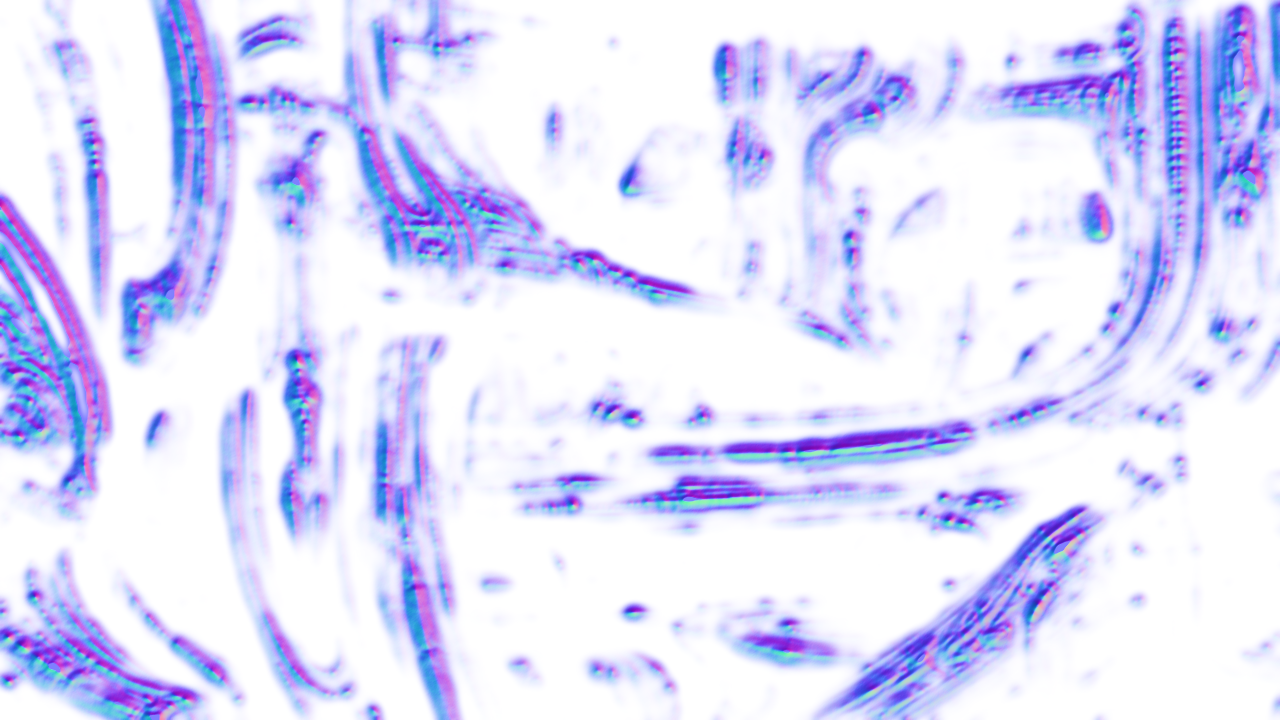
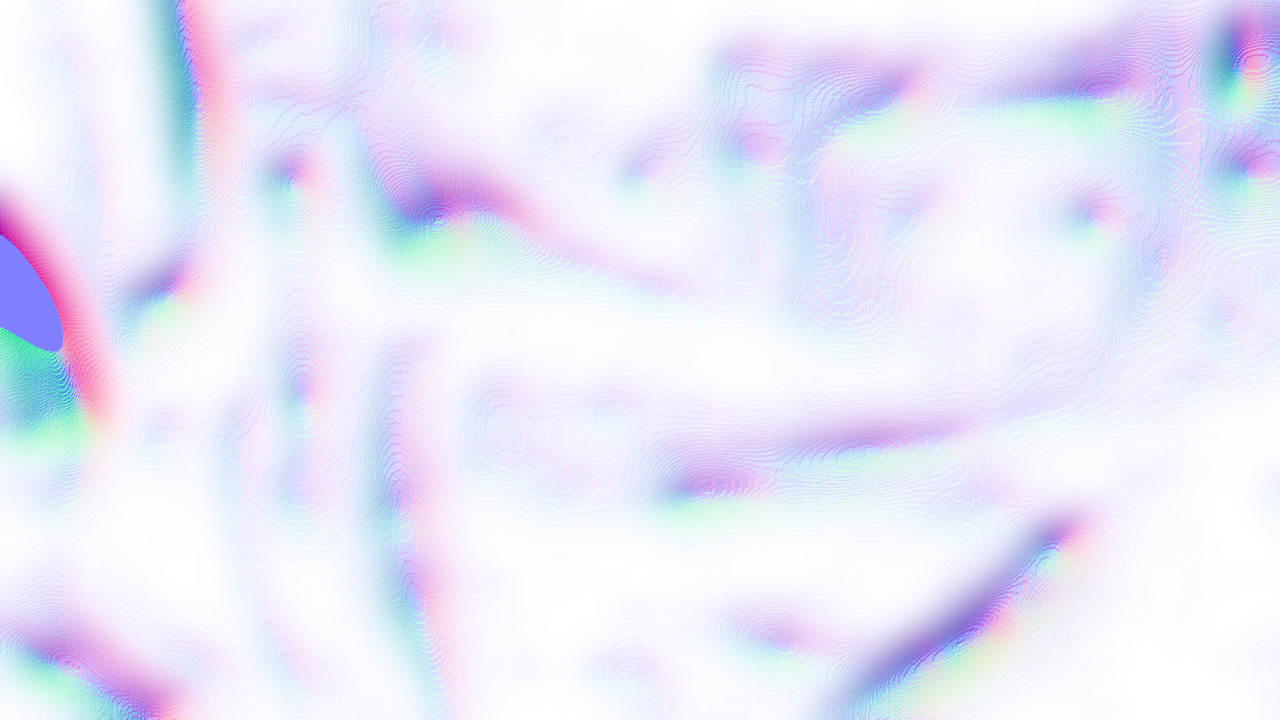
Light the backgrounds with standard tangent-space normal mapping
The block had drifted into a rig that could not read as normal mapping:
three drifting point lights, a diffuse term that used only the tilted
part of the normal, and a relief mask that gated the light to the steep
pixels. Whatever the map said, the result could only pool around the
map's ridges, never describe a lit surface, and it swung between too
weak and too strong as the pools drifted over the clipping threshold.

Replace it with the ordinary thing: an ambient floor plus two
directional lights -- a warm key whose direction drifts on a slow
lissajous and a cool fixed fill -- and a Blinn-Phong glint, all against
the full max(dot(n, l), 0.0). The relief mask and the alpha channel
that carried it are gone; alpha is the height field again and nothing
samples it.

The map needed work before that could read. Its height field was a
light blur of the luminance, and a luminance gradient is only non-zero
where the art changes: half the frame was flat and all the relief sat
in one-pixel bands along the art's contours, so lighting it traced the
art's edges -- the "lightning that is edging". The blur is now heavy
(broad 26 px, fine 13 px) so the relief comes from the large forms --
the Harvest dome, the spires, the ridges -- and the art's own texture
stops being amplified into banding. SLOPE_MAX 3.0 clamps the steepest
art edges so they cannot push a normal past ~72 degrees and strobe.

Median pixel gain is now 1.48x with a p10 of 0.73 and a p90 of 1.66, so
[…]

diff --git a/tools/make_bg_normal_maps.py b/tools/make_bg_normal_maps.py
@@ -9,14 +9,9 @@ assets/<name>_normal.png, 1280x720 RGBA:
        Convention matches assets/depth_fog*.fs on the fullscreen quad:
        x right, y DOWN (v grows with image rows), z toward the viewer,
        encoded as rgb * 0.5 + 0.5. No green-channel flip.
-  A    the relief mask the shaders multiply the lights by (0..1):
-       smoothstep(RELIEF_MIN, RELIEF_MAX) over a *blurred* slope. Baking it
-       matters: the height field pins to 0/1 where the art is dark, which
-       leaves perfectly flat plateaus, and the slope collapses to ~0 in a
-       single pixel at their border. Computing the mask from the raw slope in
-       the shader flips it 0<->1 across that one pixel -- a hard edge that
-       traces the art's contours (visible on the flanks of the Harvest
-       face). Blurring the slope first turns the cliff into a ramp.
+  A    the smoothed height field itself (0..1), kept for inspection. Nothing
+       samples it: the shaders light the RGB normal with plain tangent-space
+       N.L, so no relief mask is baked any more.
 
 The height field is the two-scale gaussian of the art's luminance, so the
 bright biomechanical ridges become raised forms. Gradient strength is
@@ -52,39 +47,47 @@ ASSETS = ROOT / "assets"
 BACKGROUNDS = ["harvest", "hole", "arctic", "castle", "city", "face", "realm"]
 
 WIDTH, HEIGHT = 1280, 720
-BLUR_DETAIL = 1.6      # px sigma for the fine height scale
-BLUR_BROAD = 3.6       # px sigma for the broad forms
+# The height field comes from luminance, so its gradient is only non-zero
+# where the art actually changes -- half the frame is flat and the relief
+# sits in bands along the art's contours. Lighting that read as edging
+# rather than bumps, so the blur is now heavy: only the large forms (dome,
+# spires, ridges) carry relief, and the art's own texture stops being
+# amplified into visible contour banding.
+BLUR_DETAIL = 13.0     # px sigma for the fine height scale
+BLUR_BROAD = 26.0      # px sigma for the broad forms
 DETAIL_WEIGHT = 0.35   # weight of the fine scale vs the broad one
-TARGET_SLOPE = 1.0     # p98 of |grad height| is scaled to this slope
-
-# Relief mask, baked into the normal maps' alpha channel (see normal_map()).
-# The slope is blurred first: where the height field pins to 0/1, or where the
-# art itself has a hard edge, the slope collapses in a single pixel, and a mask
-# taken from the raw slope flips 0<->1 there -- a hard edge that traces the
-# art's contours. RELIEF_BLUR turns those cliffs into ramps.
-RELIEF_MIN = 0.07    # slope below this is flat: stays at ambient
-RELIEF_MAX = 0.58    # slope above this is lit at full strength
-RELIEF_BLUR = 5.0    # px sigma the slope is blurred by before the mask
+TARGET_SLOPE = 2.6     # p98 of |grad height| is scaled to this slope, which
+                       # sets how strong the relief is. 1.0 left the map nearly
+                       # flat (mean tilt 10 degrees), so N.L barely varied and
+                       # the light read as a wash; 2.6 gives mean tilt 25
+                       # degrees, p90 56 -- bumps that actually answer a light.
+SLOPE_MAX = 3.0        # clamp on the scaled slope, so the steepest art edges
+                       # cannot push the normal past ~72 degrees and strobe.
 
 # ---- moving-light constants; keep in sync with assets/depth_fog*.fs ----
-AMBIENT = 1.10       # what flat art is multiplied by
-LIGHT_HEIGHT = 0.35  # grazing light height, shared by all three lights
+# Standard tangent-space normal mapping: an ambient term plus two directional
+# lights (a warm key whose direction drifts, a cool fixed fill) and a
+# Blinn-Phong glint. No pools, no masks, no slope-only tricks.
+AMBIENT = 0.55       # floor, so shadowed slopes stay out of pitch black
+KEY_GAIN = 1.25
+KEY_COLOR = (1.00, 0.93, 0.82)
+FILL_GAIN = 0.30
+FILL_COLOR = (0.55, 0.70, 1.00)
+SPEC_POWER = 48.0
+SPEC_GAIN = 0.30
 FLASH_GAIN = 1.00    # thunder-spike lift; the decay envelope is C-side
-SPEC_POWER = 28.0
-SPEC_GAIN = 0.40
-ASPECT = 16.0 / 9.0
-# (path(t) -> (u, v) centre, radius, gain, tint)
-LIGHTS = [
-    (lambda t: (0.50 + 0.42 * math.sin(t * 0.100),
-                0.30 + 0.18 * math.sin(t * 0.067 + 1.7)),
-     0.62, 3.20, (1.00, 0.97, 0.90)),
-    (lambda t: (0.22 + 0.26 * math.cos(t * 0.073 + 0.6),
-                0.52 + 0.24 * math.sin(t * 0.073)),
-     0.55, 2.80, (0.90, 0.96, 1.00)),
-    (lambda t: (0.80 + 0.22 * math.sin(t * 0.055 + 2.9),
-                0.42 + 0.28 * math.cos(t * 0.049 + 1.1)),
-     0.58, 2.60, (1.00, 0.93, 0.88)),
-]
+
+
+def key_direction(t: float) -> np.ndarray:
+    """Drifting key-light direction (unit, z toward the viewer, y DOWN)."""
+    az = 0.90 * math.sin(t * 0.043) + 0.35 * math.sin(t * 0.017 + 1.3)
+    el = 0.55 + 0.18 * math.sin(t * 0.029)
+    v = np.array([math.sin(az) * math.cos(el), -math.sin(el), math.cos(az) * math.cos(el)])
+    return v / np.linalg.norm(v)
+
+
+FILL_DIRECTION = np.array([-0.55, 0.35, 0.75])
+FILL_DIRECTION = FILL_DIRECTION / np.linalg.norm(FILL_DIRECTION)
 # -----------------------------------------------------------------------
 
 
@@ -107,47 +110,16 @@ def normal_map(img: Image.Image) -> np.ndarray:
     mag = np.sqrt(gx * gx + gy * gy)
     p = float(np.percentile(mag, 98.0))
     s = TARGET_SLOPE / max(p, 1e-6)
-    nx, ny, nz = -gx * s, -gy * s, np.ones_like(h)
+    slope = np.minimum(mag * s, SLOPE_MAX)
+    ang = np.arctan2(gy, gx)
+    nx, ny, nz = -slope * np.cos(ang), -slope * np.sin(ang), np.ones_like(h)
     inv = 1.0 / np.sqrt(nx * nx + ny * ny + nz * nz)
-    # Alpha: the relief mask, computed from a blurred slope so that art edges
-    # -- which become one-pixel cliffs where the height field pins to 0/1 --
-    # ramp instead of flipping the mask in a single pixel.
-    relief = relief_mask(gaussian_blur(mag * s, RELIEF_BLUR))
     out = np.zeros(h.shape + (4,), dtype=np.uint8)
     out[..., 0] = np.clip((nx * inv * 0.5 + 0.5) * 255.0, 0, 255)
     out[..., 1] = np.clip((ny * inv * 0.5 + 0.5) * 255.0, 0, 255)
     out[..., 2] = np.clip((nz * inv * 0.5 + 0.5) * 255.0, 0, 255)
-    out[..., 3] = np.clip(relief * 255.0, 0, 255)
+    out[..., 3] = np.clip(h * 255.0, 0, 255)
     return out
-
-
-def gaussian_blur(a: np.ndarray, sigma: float) -> np.ndarray:
-    """Separable gaussian blur with edge padding (numpy only: PIL's
-    GaussianBlur cannot handle float arrays)."""
-    if sigma <= 0.0:
-        return a
-    radius = max(1, int(round(sigma * 3.0)))
-    x = np.arange(-radius, radius + 1, dtype=np.float64)
-    kernel = np.exp(-0.5 * (x / sigma) ** 2)
-    kernel /= kernel.sum()
-    out = a
-    for axis in (0, 1):
-        pad = [(0, 0)] * out.ndim
-        pad[axis] = (radius, radius)
-        padded = np.pad(out, pad, mode="edge")
-        acc = np.zeros_like(out)
-        for i in range(kernel.size):
-            src = [slice(None)] * out.ndim
-            src[axis] = slice(i, i + out.shape[axis])
-            acc += kernel[i] * padded[tuple(src)]
-        out = acc
-    return out
-
-
-def relief_mask(slope: np.ndarray) -> np.ndarray:
-    """Smoothstep mask from RELIEF_MIN to RELIEF_MAX over a slope field."""
-    ramp = np.clip((slope - RELIEF_MIN) / max(RELIEF_MAX - RELIEF_MIN, 1e-6), 0.0, 1.0)
-    return ramp * ramp * (3.0 - 2.0 * ramp)
 
 
 def render_lights(normal_rgba: np.ndarray, base: np.ndarray, t: float,
@@ -158,36 +130,26 @@ def render_lights(normal_rgba: np.ndarray, base: np.ndarray, t: float,
     Its decay envelope lives in src/ui_board.c, so pass the amount you want
     to preview; this only mirrors the shader's FLASH_GAIN conversion.
     """
-    u = (np.arange(WIDTH, dtype=np.float64) + 0.5) / WIDTH
-    v = (np.arange(HEIGHT, dtype=np.float64) + 0.5) / HEIGHT
-    uu, vv = np.meshgrid(u, v)
     nx = normal_rgba[..., 0] / 255.0 * 2.0 - 1.0
     ny = normal_rgba[..., 1] / 255.0 * 2.0 - 1.0
     nz = normal_rgba[..., 2] / 255.0 * 2.0 - 1.0
     inv = 1.0 / np.sqrt(nx * nx + ny * ny + nz * nz)
     nx, ny, nz = nx * inv, ny * inv, nz * inv
-    relief = normal_rgba[..., 3] / 255.0  # baked mask, as the shader samples it
+
+    key = key_direction(t)
+    fill = FILL_DIRECTION
+    kd = np.clip(nx * key[0] + ny * key[1] + nz * key[2], 0.0, None)
+    fd = np.clip(nx * fill[0] + ny * fill[1] + nz * fill[2], 0.0, None)
+    # half-vector against the viewer (+z)
+    h = key + np.array([0.0, 0.0, 1.0])
+    h = h / np.linalg.norm(h)
+    spec = np.clip(nx * h[0] + ny * h[1] + nz * h[2], 0.0, None) ** SPEC_POWER
+
     flash_gain = 1.0 + FLASH_GAIN * flash
-    lit = np.full((HEIGHT, WIDTH, 3), AMBIENT * flash_gain, dtype=np.float64)
-    for path, radius, gain, tint in LIGHTS:
-        lu, lv = path(t)
-        dx = (lu - uu) * ASPECT
-        dy = lv - vv
-        d2 = dx * dx + dy * dy
-        inv_len = 1.0 / np.sqrt(d2 + LIGHT_HEIGHT * LIGHT_HEIGHT)
-        lx, ly, lz = dx * inv_len, dy * inv_len, LIGHT_HEIGHT * inv_len
-        # Relief response only: a flat normal contributes exactly zero, so
-        # the pools land on the bumps instead of washing the whole frame.
-        diff = np.clip(nx * lx + ny * ly, 0.0, None)
-        # half-vector with view = +z
-        hx, hy, hz = lx, ly, lz + 1.0
-        inv_h = 1.0 / np.sqrt(hx * hx + hy * hy + hz * hz)
-        spec = np.clip(nx * hx * inv_h + ny * hy * inv_h + nz * hz * inv_h,
-                       0.0, None) ** SPEC_POWER
-        atten = 1.0 / (1.0 + d2 / (radius * radius))
-        contrib = relief * flash_gain * (diff + SPEC_GAIN * spec) * atten * gain
-        for c in range(3):
-            lit[..., c] += contrib * tint[c]
+    lit = np.full(nx.shape + (3,), AMBIENT, dtype=np.float64) * flash_gain
+    for c in range(3):
+        lit[..., c] += flash_gain * (KEY_COLOR[c] * (kd * KEY_GAIN + spec * SPEC_GAIN)
+                                     + FILL_COLOR[c] * fd * FILL_GAIN)
     return np.clip(base * lit, 0.0, 1.0)
 
 

diff --git a/STATUS.md b/STATUS.md
@@ -10,12 +10,13 @@
 ### Moving lights over background bump maps — 20 October 2026
 
 - Replaces the PR #58 Harvest "sweeping sun" prototype. Its normal texture was nearly flat (mean z 0.997), its height mask allowed a constant +22% on only 18% of the frame (the sweep cancelled itself out by construction: constant front elevation minus the l.z baseline), and its bake darkened Harvest — none of it read as a moving light.
-- `tools/make_bg_normal_maps.py` derives real bump maps (`assets/<name>_normal.png`) from each non-Deus background's art: RGB holds a tangent-space normal of a height field derived from the art, and **alpha holds the relief mask the shaders multiply the lights by** (it previously held an unused height field). Relief is auto-normalized to a target slope so every background gets equally strong bumps, so the maps are regenerated whenever the art is re-baked (they are currently derived from the darker backgrounds now on `main`). Deus is excluded on purpose and keeps its own look. The mask is `smoothstep(0.07, 0.58)` over a *blurred* slope (sigma 5 px): where the height field pins to 0/1, or where the art itself has a hard edge, the slope collapses in a single pixel, and a mask taken from the raw slope flips 0<->1 there -- a hard edge tracing the art's contours, reported on the right flank of the Harvest face. Baking it, and blurring first, took the Harvest dome from 217 one-pixel flips to zero.
-- Both background shaders (`assets/depth_fog.fs`, `assets/depth_fog_web.fs`) light the bump with an ambient lift — every lit background is brighter than its art, so there is no night side — plus three wide soft lights drifting on independent slow paths. The diffuse term uses only the *tilted* part of the normal (`n.x*l.x + n.y*l.y`, the flat viewer-facing component projected out) and a relief mask keeps near-flat art at ambient, so the pools land on the raised ridges instead of washing the whole frame. That mask is read from the map's alpha channel, pre-blurred by the tool, so the lit/unlit boundary can only ramp. An earlier version of this block used the full `dot(n, l)`: because a flat normal returns `l.z` (~0.5-1.0) under a low light, that alone multiplied nearly the whole frame by ~2.0-2.9 and the bump map moved the result by only ~5 luma on average — the light showed up on flat art, not on the bumps. Light height is now 0.35 (grazing) so ridges read stronger, and the ambient lift is 1.10 rather than 1.22 so flat art stays slightly brighter than the art without being washed out. `--check` enforces desktop/web parity of the moving-light block, and the tool mirrors its constants for offline previews.
+- `tools/make_bg_normal_maps.py` derives real bump maps (`assets/<name>_normal.png`) from each non-Deus background's art: RGB holds a tangent-space normal of a height field derived from the art, and **alpha holds the height field itself, which nothing samples** — the shaders light the RGB normal with plain tangent-space `N.L`, so no relief mask is baked any more (the mask was removed with the relief-only trick it existed to gate). Relief is auto-normalized to a target slope so every background gets equally strong bumps, so the maps are regenerated whenever the art is re-baked (they are currently derived from the darker backgrounds now on `main`). Deus is excluded on purpose and keeps its own look.
+- The height field is a heavily blurred luminance (broad sigma 26 px, fine 13 px, 35/65 blend). The blur weight matters more than the slope: a luminance-derived gradient is only non-zero where the art changes, so at the previous light blur (3.6/1.6 px) half the frame was flat and *all* the relief sat in narrow bands along the art's contours — lighting that read as "lightning that is edging", a complaint the slope-only and mask-only fixes could not touch. At 26/13 the relief comes from the large forms (the Harvest dome, the spires, the ridges) and the art's own texture is no longer amplified into visible contour banding; `SLOPE_MAX` 3.0 clamps the steepest art edges so they cannot push a normal past ~72 degrees and strobe. `TARGET_SLOPE` 2.6 gives mean tilt 25 degrees, p90 56.
+- Both background shaders (`assets/depth_fog.fs`, `assets/depth_fog_web.fs`) now do ordinary tangent-space normal mapping: an ambient floor (0.55) plus two *directional* lights — a warm key whose direction drifts on a slow lissajous and a cool fixed fill — with a Blinn-Phong glint (`SPEC_POWER` 48, `SPEC_GAIN` 0.30). The diffuse term is the full `max(dot(n, l), 0.0)`, so the bump actually steers the light and the highlight travels as the key light swings. This replaces the previous rig of three drifting *point* lights with a relief-only response and a mask, which could only ever pool around the map's steep pixels and never read as a lit surface. Because a flat normal returns `l.z` (~0.5-1.0) under a directional light, the ambient floor is what keeps the frame from washing out — 0.55 leaves shadowed slopes at ~0.8x and lit ones at ~1.7-2.0x, so the light and dark sides of the relief both read. `--check` enforces desktop/web parity of the moving-light block, and the tool mirrors its constants for offline previews.
 - A capture (a match taken from the table) or a Koi-Koi call also flashes the background lights like a thunder: `bg_light_flash()` in `src/ui_board.c` spikes to 1.0 and decays linearly at 2.2/s until only 30% of the peak is left (~0.32 s), then eases into a long exponential tail (`tau` 0.55 s) back to rest, so the whole flash lasts ~2.5 s. The shader multiplies the entire lighting factor by `1 + FLASH_GAIN * flashAmount`. Both events are caught as rising edges (`ANIM_CAPTURE_FLY` becoming active, `koi_called[]` counting up), so every event flashes exactly once and SHOBU, which does not call Koi-Koi, does not flash. Deus has no normal map and is unaffected.
 - In-match drawing enables the effect per background whenever its normal map is loaded (`src/ui_board.c`); menus keep the static dimmed path. Fog values, vignette, cards, rules, scoring, AI, campaign, storage, and replay are untouched.
-- Verification actually run: `python3 tools/make_bg_normal_maps.py --check`; `./build.sh test` (500 simulated matches); `./tests/test_table_ui.sh`; strict C99 `-Wall -Wextra -Werror` syntax check of all `src/*.c` against Raylib 5.5 headers; offline simulation of the shader math (`--preview`) against the current art -- median pixel gain is 1.10x (ambient only) instead of 2.1x, only 7-14% of pixels (the ridges) exceed 1.5x instead of 94-96%, clipping is 0.0-0.4% instead of 2-3%, mean background luma rises modestly instead of doubling (Harvest 13.4 -> 18.4), the worst single-pixel step in the mask is 0.18 instead of 1.00, half the pixels do not move at all between samples 25 s apart, and the moving 8-17% shift by p99 49-93 luma. At the flash peak the frame reaches 2.2x median with 0.7-2.1% clipping before the tail brings it back.
-- Still to verify: maintainer GPU retest on desktop/web — light travel and bump read on the ridges, strength under fog + bloom + CRT, and that Deus is visually unchanged. Deliberately left alone: a rare one-pixel specular glint where a narrow ridge in the art swings the normal through vertical in a single pixel (up to ~130 luma at one pixel, though the p95 of the added field is only 7.5). Softening it further means either blurring the stored normals, which costs relief read (p95 gain 1.72 -> 1.39 at sigma 4 px), or multi-tap smoothing in the shader, which costs a few texture fetches per background pixel -- both measured and judged not worth it for now; `SPEC_POWER`/`SPEC_GAIN` soften it if it shows on GPU. Tuning lives in the moving-light block of both shaders (keep the tool in sync).
+- Verification actually run: `python3 tools/make_bg_normal_maps.py --check`; `./build.sh test` (500 simulated matches); `./tests/test_table_ui.sh`; strict C99 `-Wall -Wextra -Werror` syntax check of all `src/*.c` against Raylib 5.5 headers; GLSL block parse of both shaders; offline simulation of the shader math (`--preview`) against the current art — median pixel gain is 1.48x with a p10 of 0.73 and a p90 of 1.66 (shadowed and lit slopes both read), clipping 0.0-0.1%, mean background luma rises modestly instead of doubling (Harvest 13.4 -> 17.3), and 14-31% of pixels shift by more than 6 luma between samples 25 s apart as the key light drifts. At the flash peak the whole factor multiplies by 2.0x.
+- Still to verify: maintainer GPU retest on desktop/web — light travel, bump read on the ridges, and that Deus is visually unchanged. Deliberately left alone: the relief is derived from luminance, so it describes where the art changes rather than a true surface; where the art has fine texture the gradient is small and that texture stays unlit. Tuning lives in the moving-light block of both shaders (keep the tool in sync): `AMBIENT` for how dark the shadow side goes, `KEY_GAIN`/`FILL_GAIN` for strength, `BLUR_BROAD`/`BLUR_DETAIL` for how broad the relief is, `TARGET_SLOPE` for how strong it is.
 
 
 - Added click-to-select / click-to-play alongside existing dragging. Selection and matching field cards remain outlined; clicking the selected card again, right-clicking, or pressing Esc cancels selection. Small pointer movements are tolerated as clicks.
